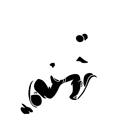
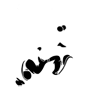
update all.png / update css

diff --git a/index.html b/index.html
@@ -17,8 +17,9 @@
     <div class="row">
       <h1>LE NOUVEAU WORKSHOP</h1>
     </div>
-      <img src='all.png'>
-        <div class='all'>→ Download all</div>
+      <div id='titeuf'>
+          <img src='all.png'></div>
+            <div class='all'>→ Download all</div>
     <div class="row">
       <div class="col-md-4 readme">
         <img src='ecole.jpg'>

diff --git a/assets/css/style.css b/assets/css/style.css
@@ -51,3 +51,7 @@ a:hover {
 	font-size: 18px;
 	text-align: right;
 }
+
+.titeuf {
+	float: right;
+}
